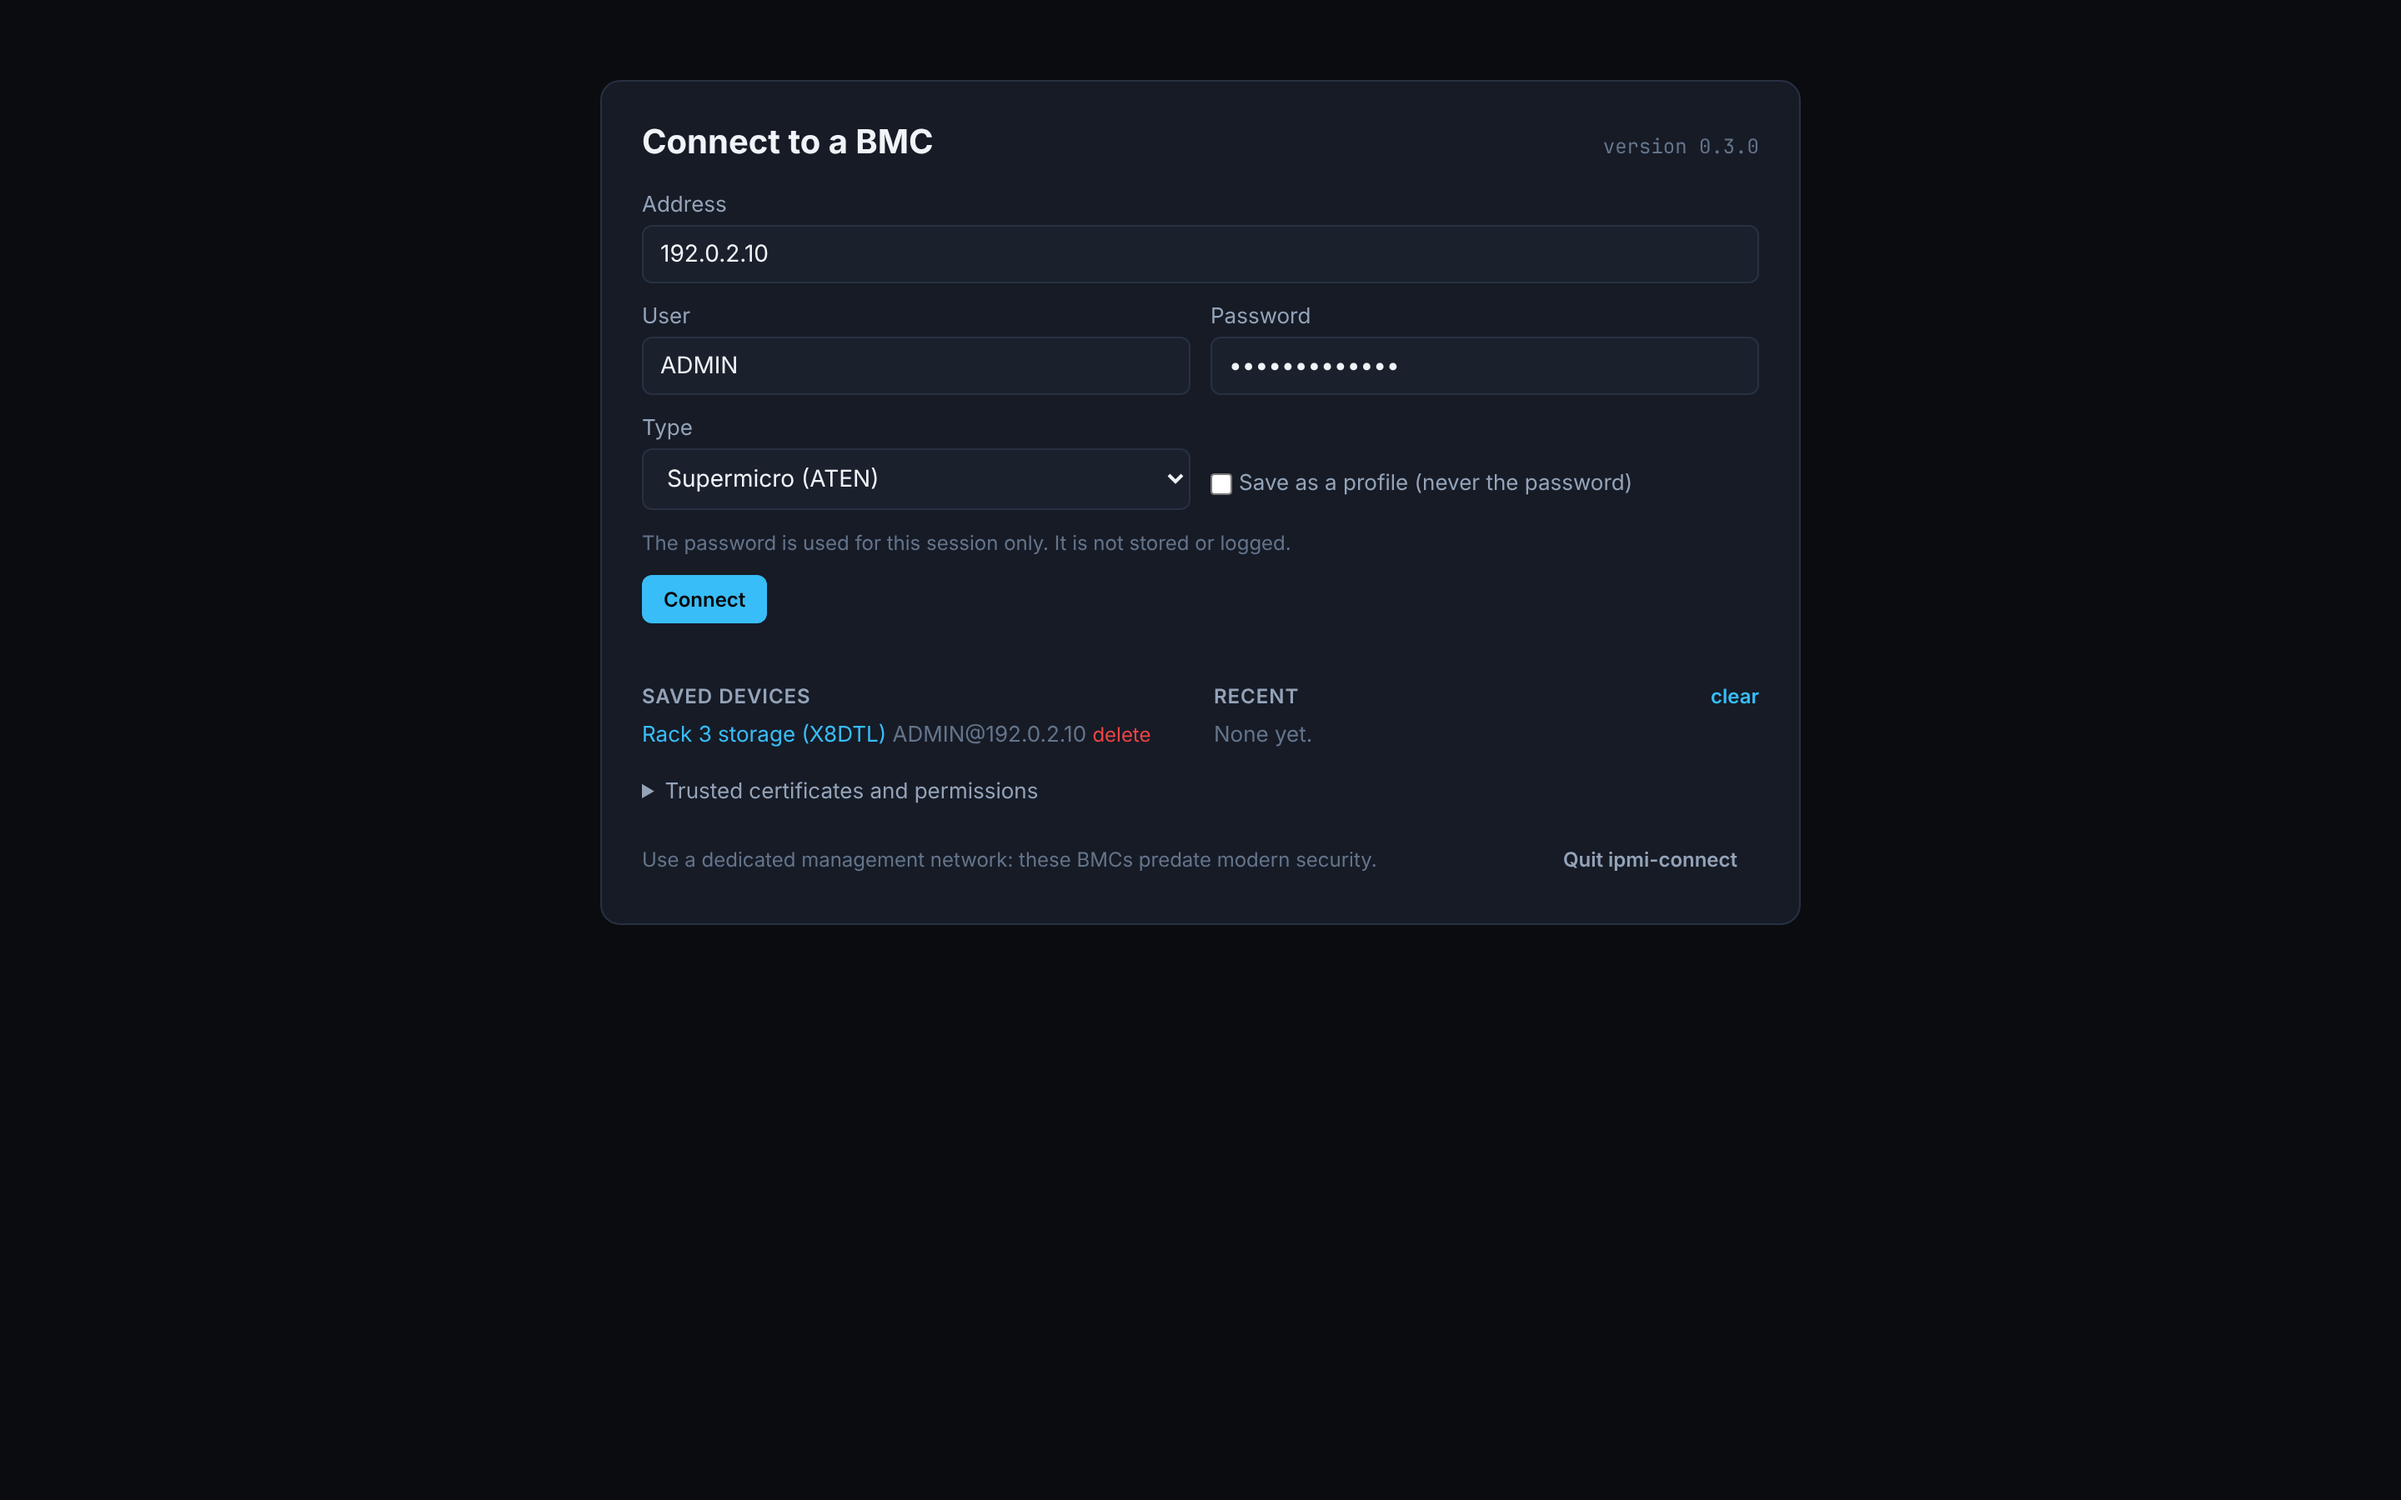
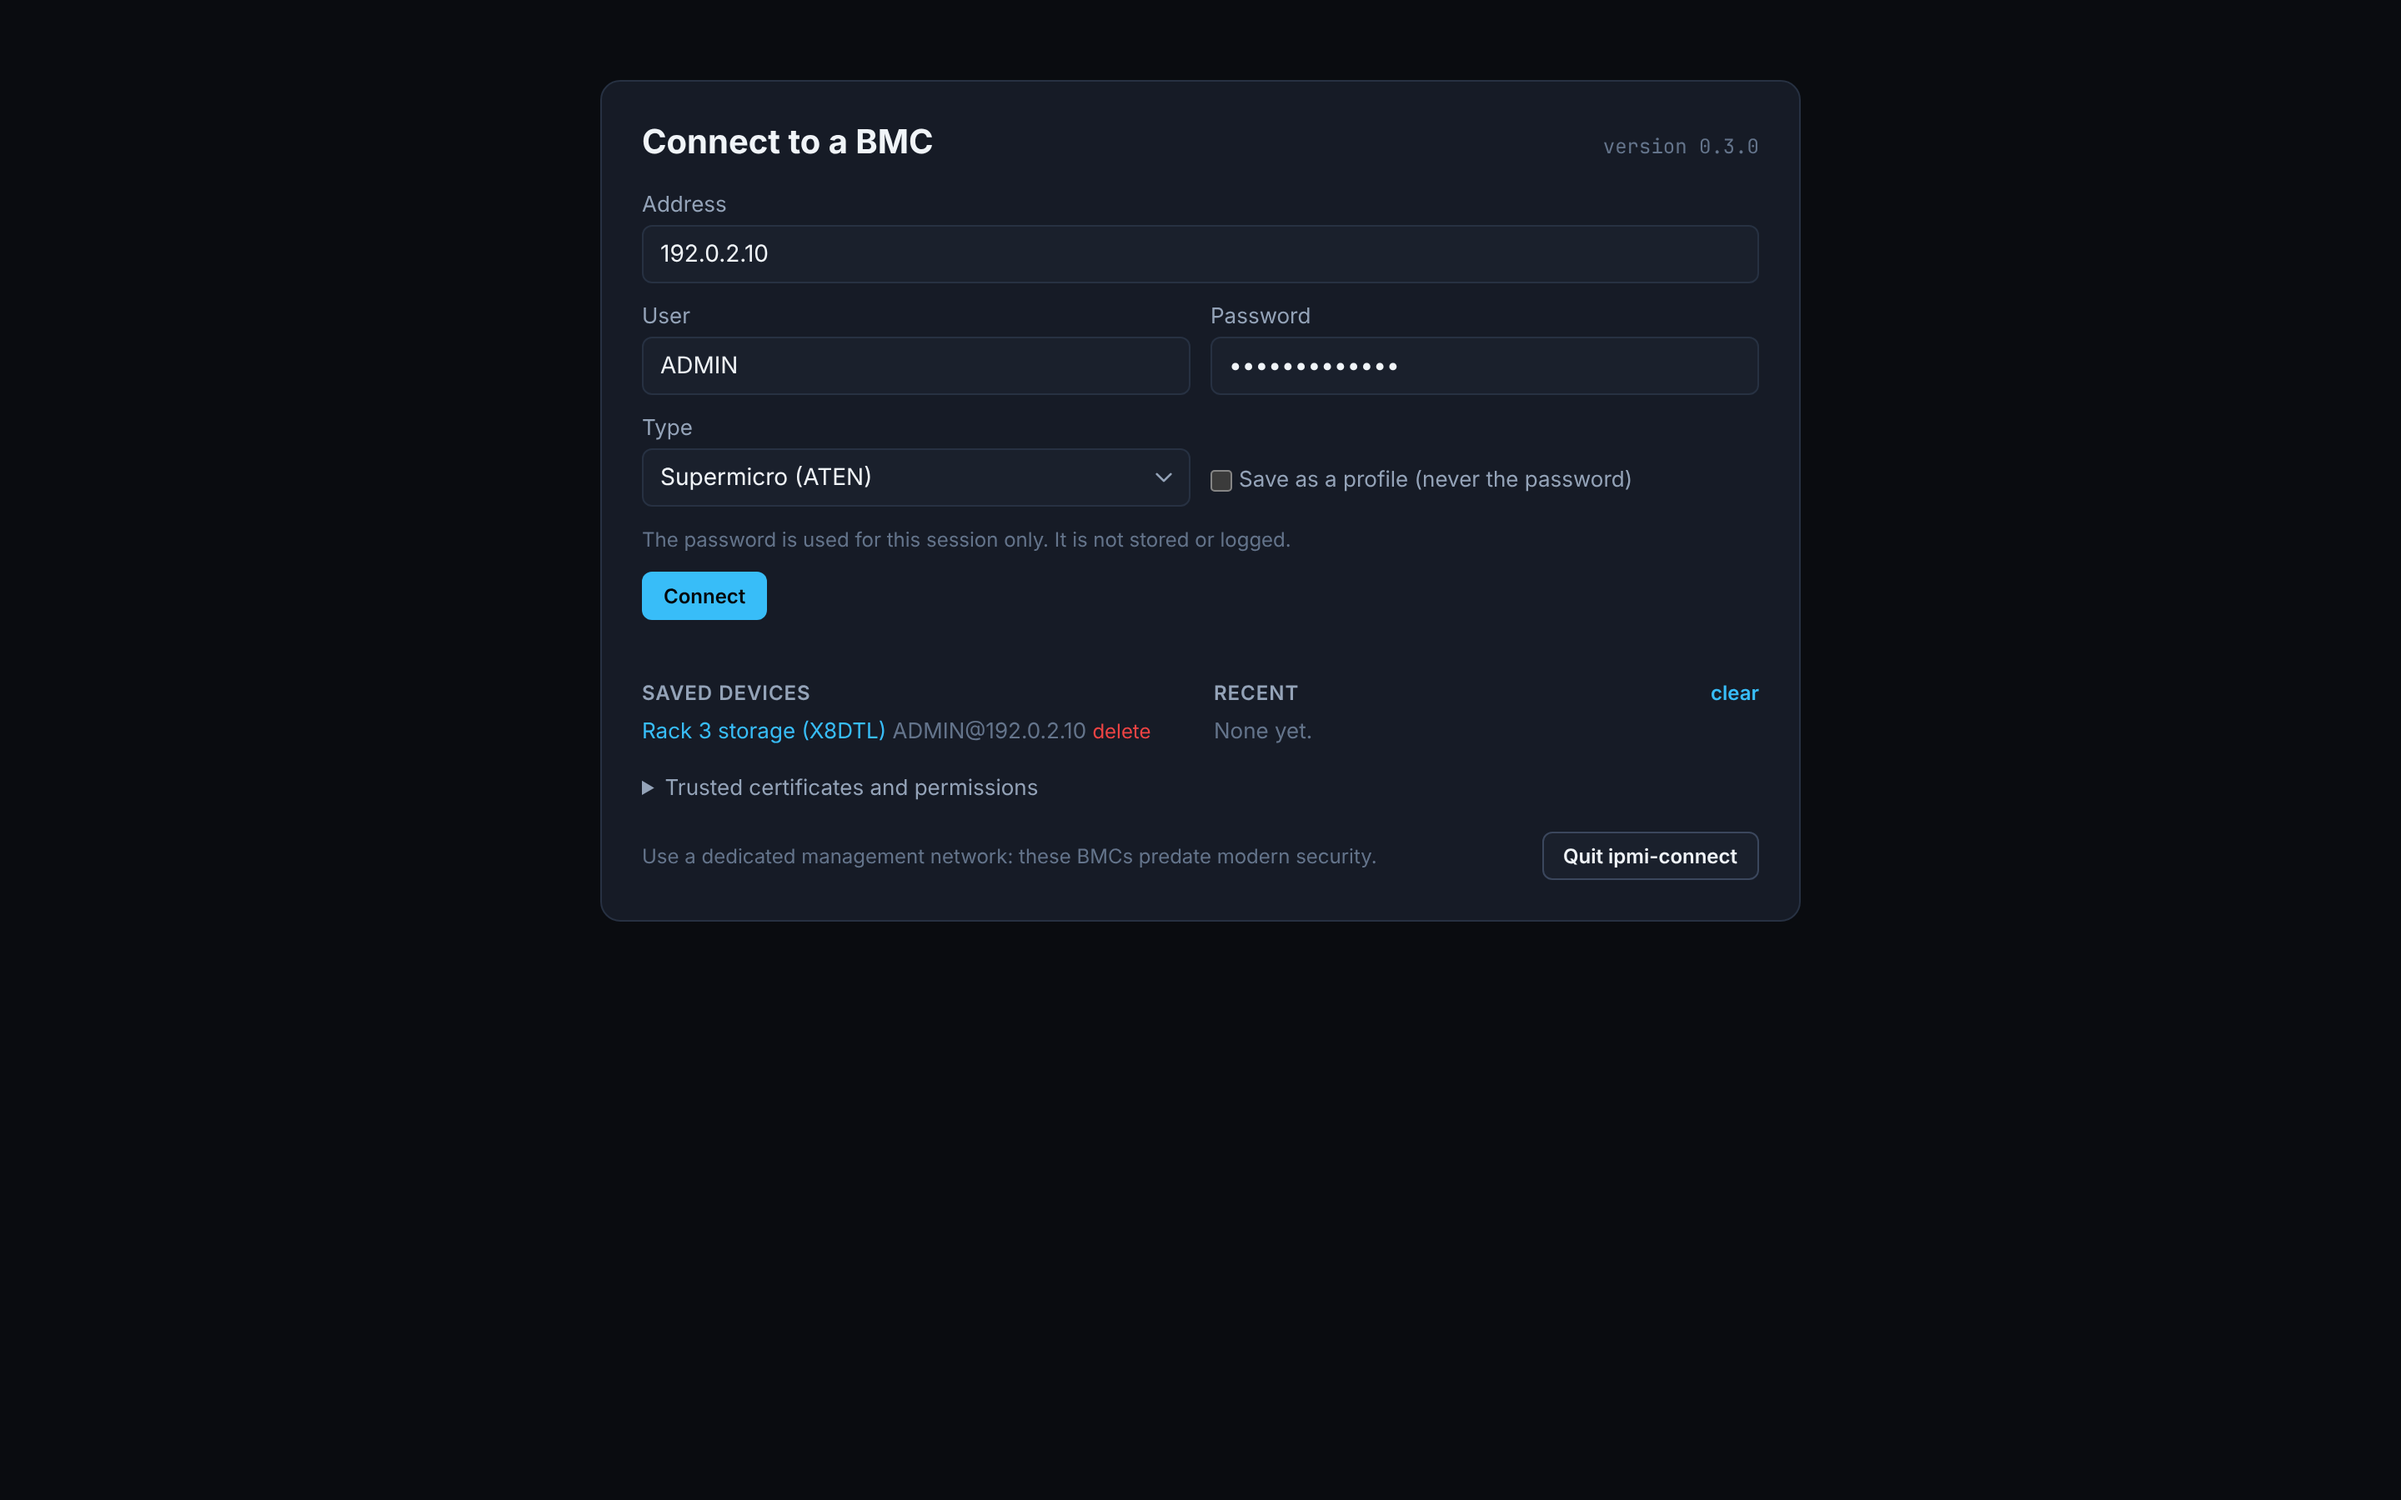
docs: desktop window screenshots and the script that takes them
The e2e fake app can now open the native window (FAKEAPP_WINDOW), start
connected (FAKEAPP_CONNECTED) and show a fixed host screen (FAKEAPP_SCREEN).
Browser screenshots are regenerated with the new button styling.

Claude-Session: https://claude.ai/code/session_01BjDNwHsjvG26PigoejQgVc

diff --git a/test/e2e/fakeapp/main.go b/test/e2e/fakeapp/main.go
@@ -6,6 +6,9 @@ import (
 	"context"
 	"crypto/sha256"
 	"fmt"
+	"image"
+	"image/draw"
+	"image/png"
 	"os"
 	"os/signal"
 	"strings"
@@ -112,6 +115,7 @@ func (s *sessions) Connect(ctx context.Context, req session.Request) (session.St
 	s.mu.Lock()
 	s.phase, s.stop = session.PhaseConnected, cancel
 	s.mu.Unlock()
+	screen := loadScreen()
 	go func() {
 		w, h, interval := 320, 200, 200*time.Millisecond
 		// FAKEAPP_STRESS=1024x768@30 streams a full-screen change at that rate instead, to
@@ -133,7 +137,11 @@ func (s *sessions) Connect(ctx context.Context, req session.Request) (session.St
 					pix[i], pix[i+1], pix[i+2] = 18, 18, 18
 				}
 			}
-			s.server.UpdateScreen(w, h, pix)
+			if screen != nil { // a fixed picture instead of the generated one
+				s.server.UpdateScreen(screen.Rect.Dx(), screen.Rect.Dy(), screen.Pix)
+			} else {
+				s.server.UpdateScreen(w, h, pix)
+			}
 			select {
 			case <-runCtx.Done():
 				return
@@ -155,6 +163,28 @@ func (s *sessions) Disconnect() {
 	}
 }
 
+// loadScreen reads FAKEAPP_SCREEN, a PNG shown as the host's screen in documentation shots.
+func loadScreen() *image.RGBA {
+	path := os.Getenv("FAKEAPP_SCREEN")
+	if path == "" {
+		return nil
+	}
+	f, err := os.Open(path) //nolint:gosec // test tool; the path comes from its operator
+	if err != nil {
+		fmt.Fprintln(os.Stderr, err)
+		return nil
+	}
+	defer f.Close()
+	img, err := png.Decode(f)
+	if err != nil {
+		fmt.Fprintln(os.Stderr, err)
+		return nil
+	}
+	rgba := image.NewRGBA(img.Bounds().Sub(img.Bounds().Min))
+	draw.Draw(rgba, rgba.Rect, img, img.Bounds().Min, draw.Src)
+	return rgba
+}
+
 func main() {
 	if os.Getenv("FAKEAPP_DOCS") == "1" {
 		useDocsValues()
@@ -167,8 +197,28 @@ func main() {
 	srv.Media = web.NewMediaRoots(os.TempDir())
 	sess := &sessions{server: srv, phase: session.PhaseIdle}
 	srv.Sessions = sess
+	if os.Getenv("FAKEAPP_CONNECTED") == "1" { // start on the console, past the consent dialog
+		if _, err := sess.Connect(context.Background(), session.Request{Password: "test-password",
+			TrustFingerprints: []string{fakeFingerprint}, AllowLegacyTLS: true, AllowInsecureChannels: true}); err != nil {
+			fmt.Fprintln(os.Stderr, err)
+			os.Exit(1)
+		}
+	}
 	ctx, stop := signal.NotifyContext(context.Background(), os.Interrupt)
 	defer stop()
 	srv.OnShutdown = stop
-	_ = srv.Run(ctx, func(url string) { fmt.Println(url) })
+	if os.Getenv("FAKEAPP_WINDOW") != "1" {
+		_ = srv.Run(ctx, func(url string) { fmt.Println(url) })
+		return
+	}
+	// The server in the background and the window on the main goroutine, as in the desktop build.
+	links := make(chan string, 1)
+	go func() {
+		_ = srv.Run(ctx, func(url string) { fmt.Println(url); links <- url })
+		os.Exit(0)
+	}()
+	if err := openWindow(<-links); err != nil {
+		fmt.Fprintln(os.Stderr, err)
+		os.Exit(1)
+	}
 }

diff --git a/test/e2e/fakeapp/window_desktop.go b/test/e2e/fakeapp/window_desktop.go
@@ -1,0 +1,22 @@
+//go:build desktop
+
+package main
+
+import (
+	"github.com/wailsapp/wails/v3/pkg/application"
+)
+
+// openWindow shows url in a native Wails window, as the desktop build does, and blocks until the
+// window closes. Used for the desktop documentation screenshots (FAKEAPP_WINDOW=1).
+func openWindow(url string) error {
+	app := application.New(application.Options{
+		Name:                        "IPMI Connect",
+		Linux:                       application.LinuxOptions{ApplicationID: "io.github.a5m0.IPMIConnect", ProgramName: "io.github.a5m0.IPMIConnect"},
+		DisableDefaultSignalHandler: true,
+	})
+	app.Window.NewWithOptions(application.WebviewWindowOptions{
+		Title: "IPMI Connect", Width: 1280, Height: 860, URL: url,
+		DefaultContextMenuDisabled: true,
+	})
+	return app.Run()
+}

diff --git a/test/e2e/fakeapp/window_default.go b/test/e2e/fakeapp/window_default.go
@@ -1,0 +1,8 @@
+//go:build !desktop
+
+package main
+
+import "errors"
+
+// openWindow needs the desktop build: go build -tags desktop,purego,production ./test/e2e/fakeapp
+func openWindow(string) error { return errors.New("FAKEAPP_WINDOW needs a build with -tags desktop") }

diff --git a/README.md b/README.md
@@ -25,6 +25,22 @@ Writable checkbox (images are now read-only by default). The connection manager,
 security pictures come from the scripted test app (`node test/e2e/screenshots.mjs`), with a
 documentation address.
 
+### Desktop window
+
+The Flatpak and the `ipmi-connect-desktop` binary show the same interface in a native window
+(GTK4 and WebKitGTK) instead of a browser tab.
+
+| Connection manager | First connection |
+| :---: | :---: |
+| ![The connection manager in the native desktop window](docs/images/desktop-connection-manager.png) | ![The certificate and protocol consent dialog in the desktop window](docs/images/desktop-consent.png) |
+
+| Console | Type text on the host |
+| :---: | :---: |
+| ![The console in the desktop window showing a Linux shell](docs/images/desktop-console.png) | ![The type-text panel docked under the console, with a command ready to type and Press Enter after ticked](docs/images/desktop-type-text.png) |
+
+The desktop pictures come from the same test app in the native window
+(`test/e2e/desktop-screenshots.sh`); the host's screen is a picture taken from a real session.
+
 ## Supported hardware
 
 It has been tested on the two boards I own. Other BMCs running the same firmware families may work, but I can't promise anything.
@@ -44,12 +60,14 @@ It has been tested on the two boards I own. Other BMCs running the same firmware
 | Power control | Works | Status verified; commands over the KVM socket or `ipmi.cgi` |
 | Virtual media | Works: ISO on CD/DVD (booted an installer), IMG on removable or floppy (read-write), Create Image, transfer graph, USB reset | Works: ISO on CD, IMG on removable or floppy (read-write), Create Image (blank or from a folder), all verified byte-exact on hardware; one drive at a time, see known issues |
 
-The console also has typed paste (send your clipboard as keystrokes), screenshots, scaling and fullscreen with keyboard lock.
+The console also has a **type text** panel (paste or write text, and it is typed on the host as
+keystrokes, optionally followed by Enter; Ctrl/Cmd+Shift+V on the console types the clipboard
+straight away), screenshots, scaling and fullscreen with keyboard lock.
 
 ## Install
 
 Pick one. Each release attaches native archives for Linux and macOS (amd64, arm64), Flatpak
-bundles (x86_64, aarch64), `sha256sums.txt`, a CycloneDX SBOM and build-provenance attestations;
+bundles (x86_64, aarch64), `sha256sums.txt`, CycloneDX SBOMs and build-provenance attestations;
 see [Verify a release](#verify-a-release).
 
 ### Standalone executable (Linux, macOS)
@@ -60,6 +78,15 @@ tar -xzf ipmi-connect_<version>_linux_amd64.tar.gz
 
 ```bash
 install -Dm755 ipmi-connect ~/.local/bin/ipmi-connect
+```
+
+The Linux archives also carry `ipmi-connect-desktop`, the same program with its own window
+(see [Desktop window](#desktop-window)) instead of a browser tab. It needs GTK 4.8+ and
+WebKitGTK 6.0 (`libgtk-4-1` and `libwebkitgtk-6.0-4`: Debian 12, Ubuntu 24.04, Fedora 38 or
+newer) and says which package is missing if they are not installed:
+
+```bash
+install -Dm755 ipmi-connect-desktop ~/.local/bin/ipmi-connect-desktop
 ```
 
 On macOS, use the `darwin` archive; the first run may need **System Settings → Privacy &

diff --git a/docs/design/wails-spike.md b/docs/design/wails-spike.md
@@ -79,7 +79,7 @@ will do better than both.
 | Screenshot button | `<a download>` is silently dropped by WebKitGTK, so the window build saves through Go: `POST /api/screenshot/save` encodes the server's own copy of the screen and shows the native Save dialog. Driven under Xvfb: the GTK file chooser appears with the suggested name and the file is written |
 | Dropping a file or link on the window | Refused by the page (a drop would otherwise navigate away from the console); also applies in browsers |
 | `window.open` | Returns null; no window opens |
-| `<select>` styling | Native GTK widget, light on the dark theme (see image); needs CSS |
+| `<select>` styling | Was a native GTK widget, light on the dark theme (see image). Now drawn by the page (`appearance: none`, `color-scheme: dark`, an inline SVG arrow), dark in WebKitGTK and Chromium. The open list is still a GTK popover and follows the desktop's theme |
 | Memory | Main process about 290 MB RSS with software GL, plus WebKit's network and web processes (each in WebKit's own bubblewrap sandbox) |
 
 ## Security notes
@@ -143,9 +143,14 @@ needs a Mac to build. Before shipping on macOS:
 
 - Window close while a BMC session is active was not tested under Xvfb (no window manager);
   SIGTERM was.
-- Release archives still carry only the browser build; adding `ipmi-connect-desktop` for Linux
-  is one more `go build` line in `scripts/build-release.sh` once it has had real-desktop use.
-- The `<select>` styling for WebKit.
+- Done: the Linux release archives (amd64, arm64) carry `ipmi-connect-desktop` beside the
+  browser build, with its own SBOM (`ipmi-connect-desktop_<version>.cdx.json`), since it links
+  Wails. macOS archives still carry only the browser build (see above).
+- Done: the `<select>` styling for WebKit (see the table above).
+- Documentation screenshots of the window: `test/e2e/desktop-screenshots.sh` runs the e2e fake
+  app in the window under Xvfb and drives it with xdotool. WebKitGTK ignores XTEST clicks unless
+  `GDK_CORE_DEVICE_EVENTS=1`, and a click on a text field leaves it selecting text, so the script
+  fills the form with the keyboard.
 
 The browser build stays: CLI use, ChromeOS/Crostini without a Linux desktop, and machines
 without GTK4/WebKitGTK still need it.
